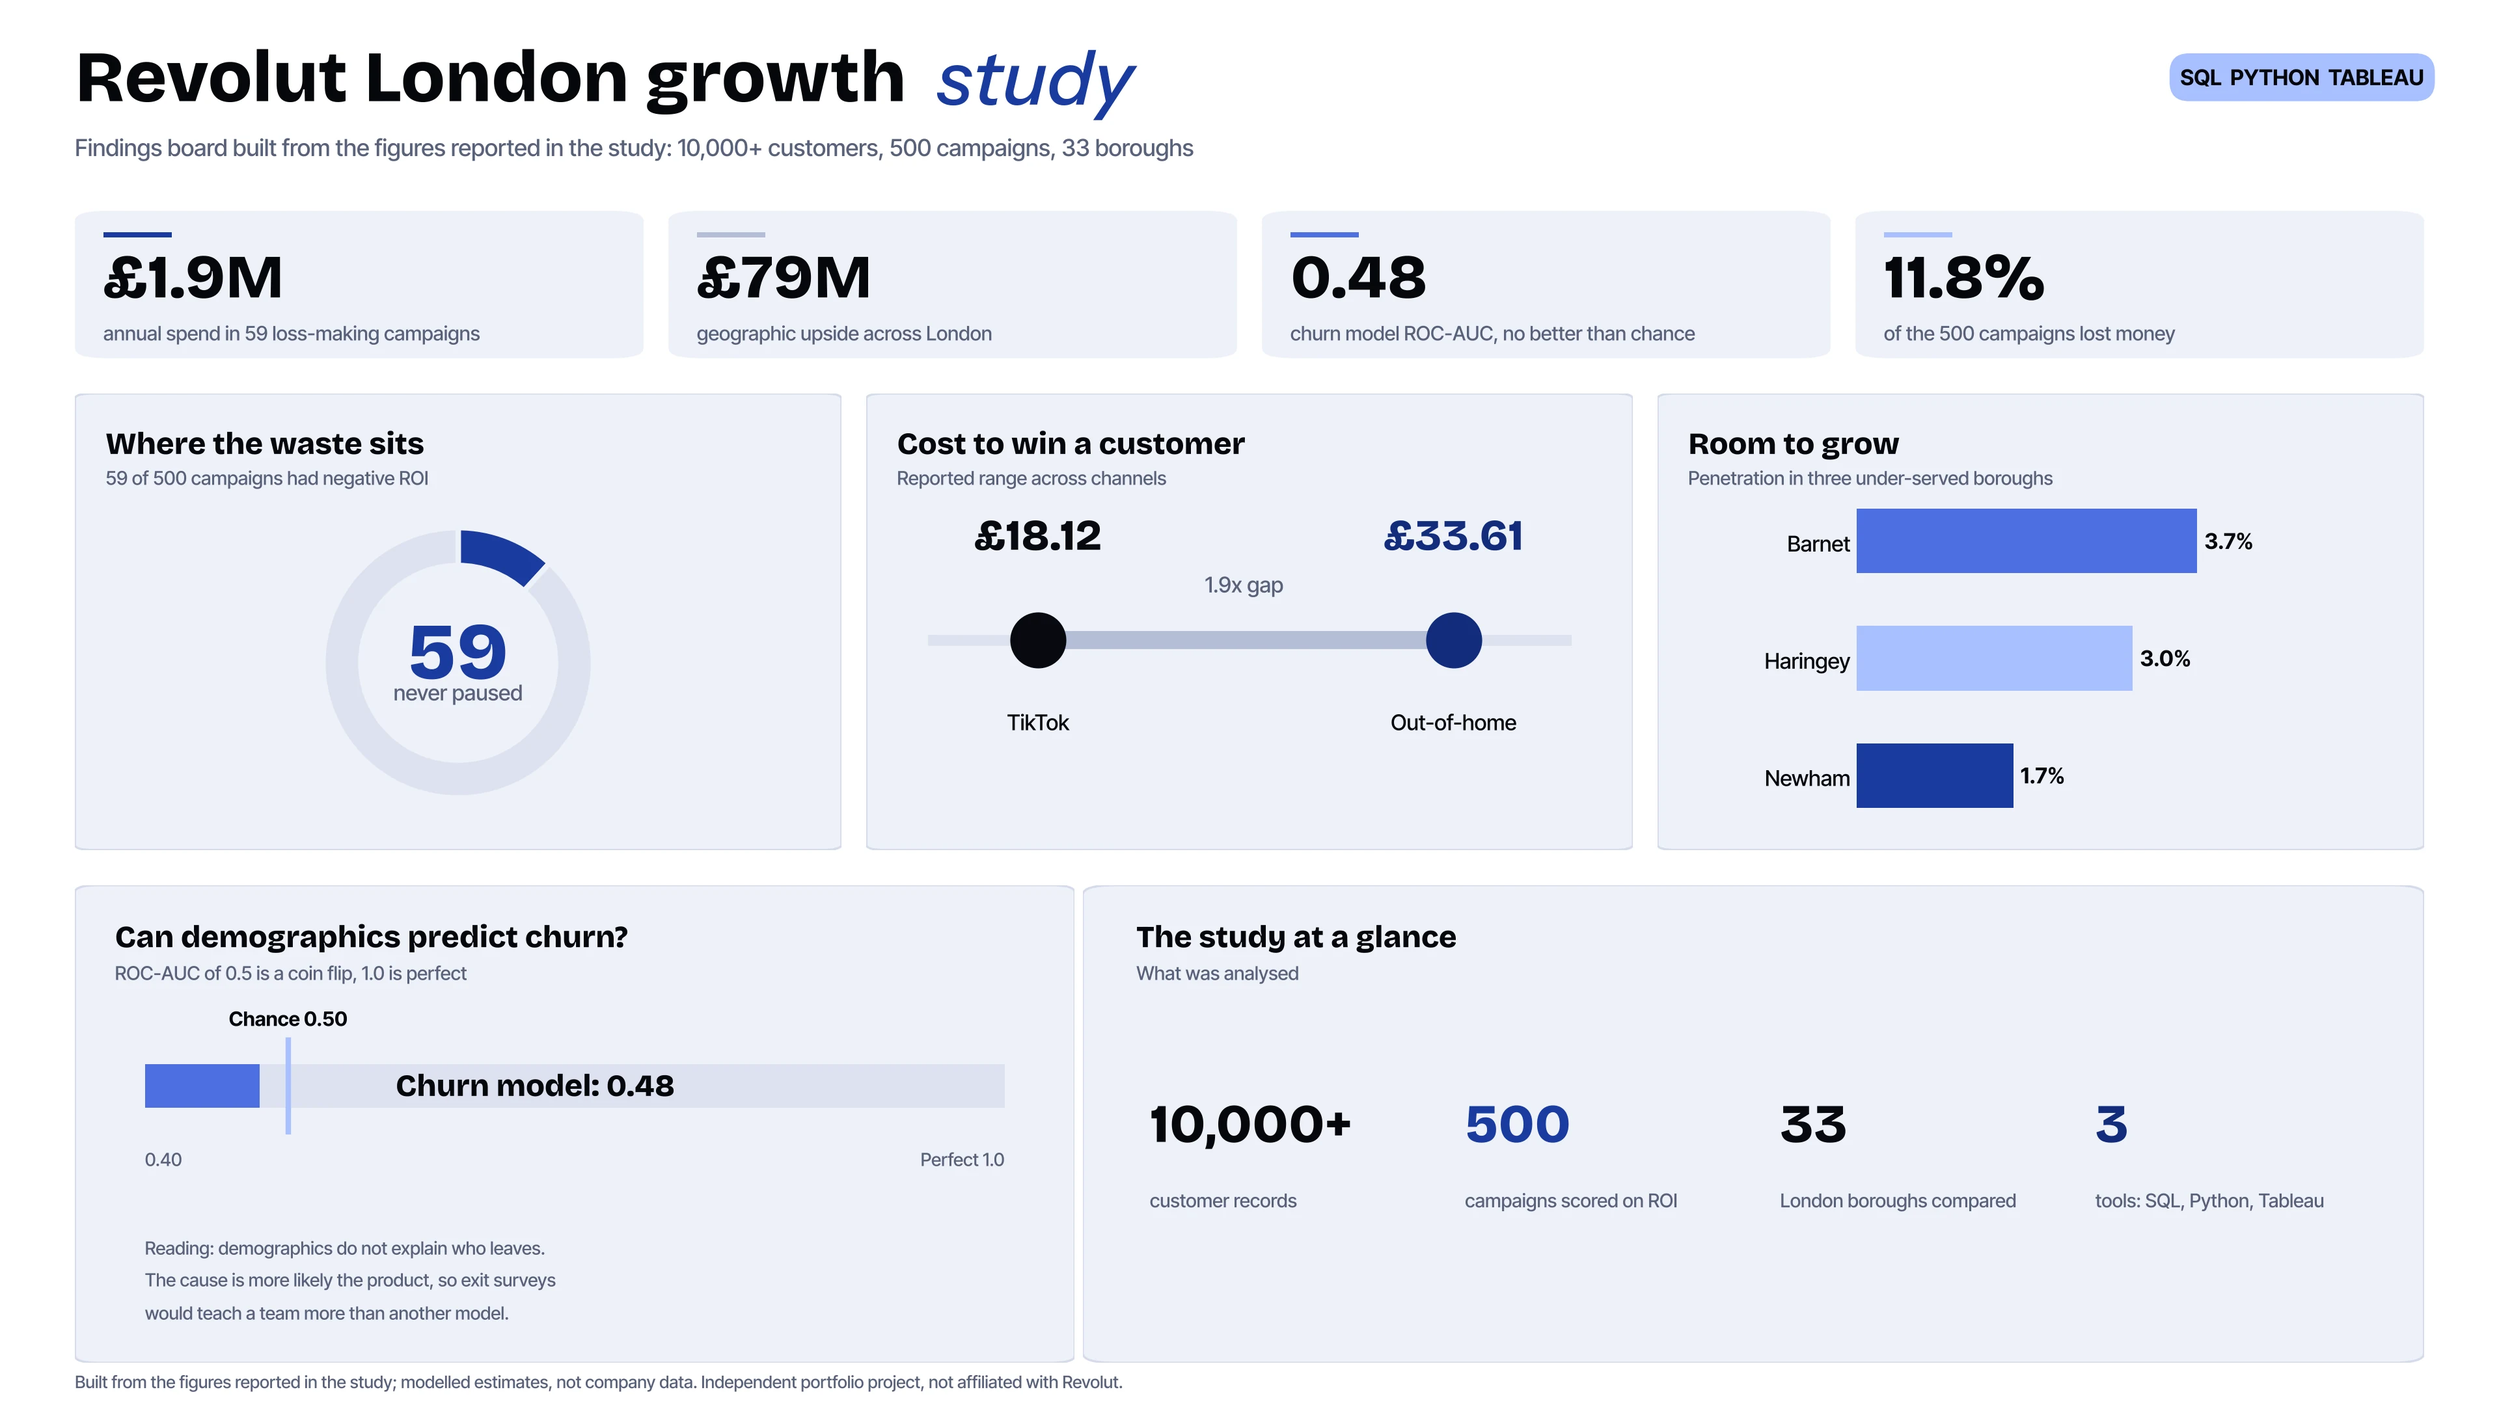
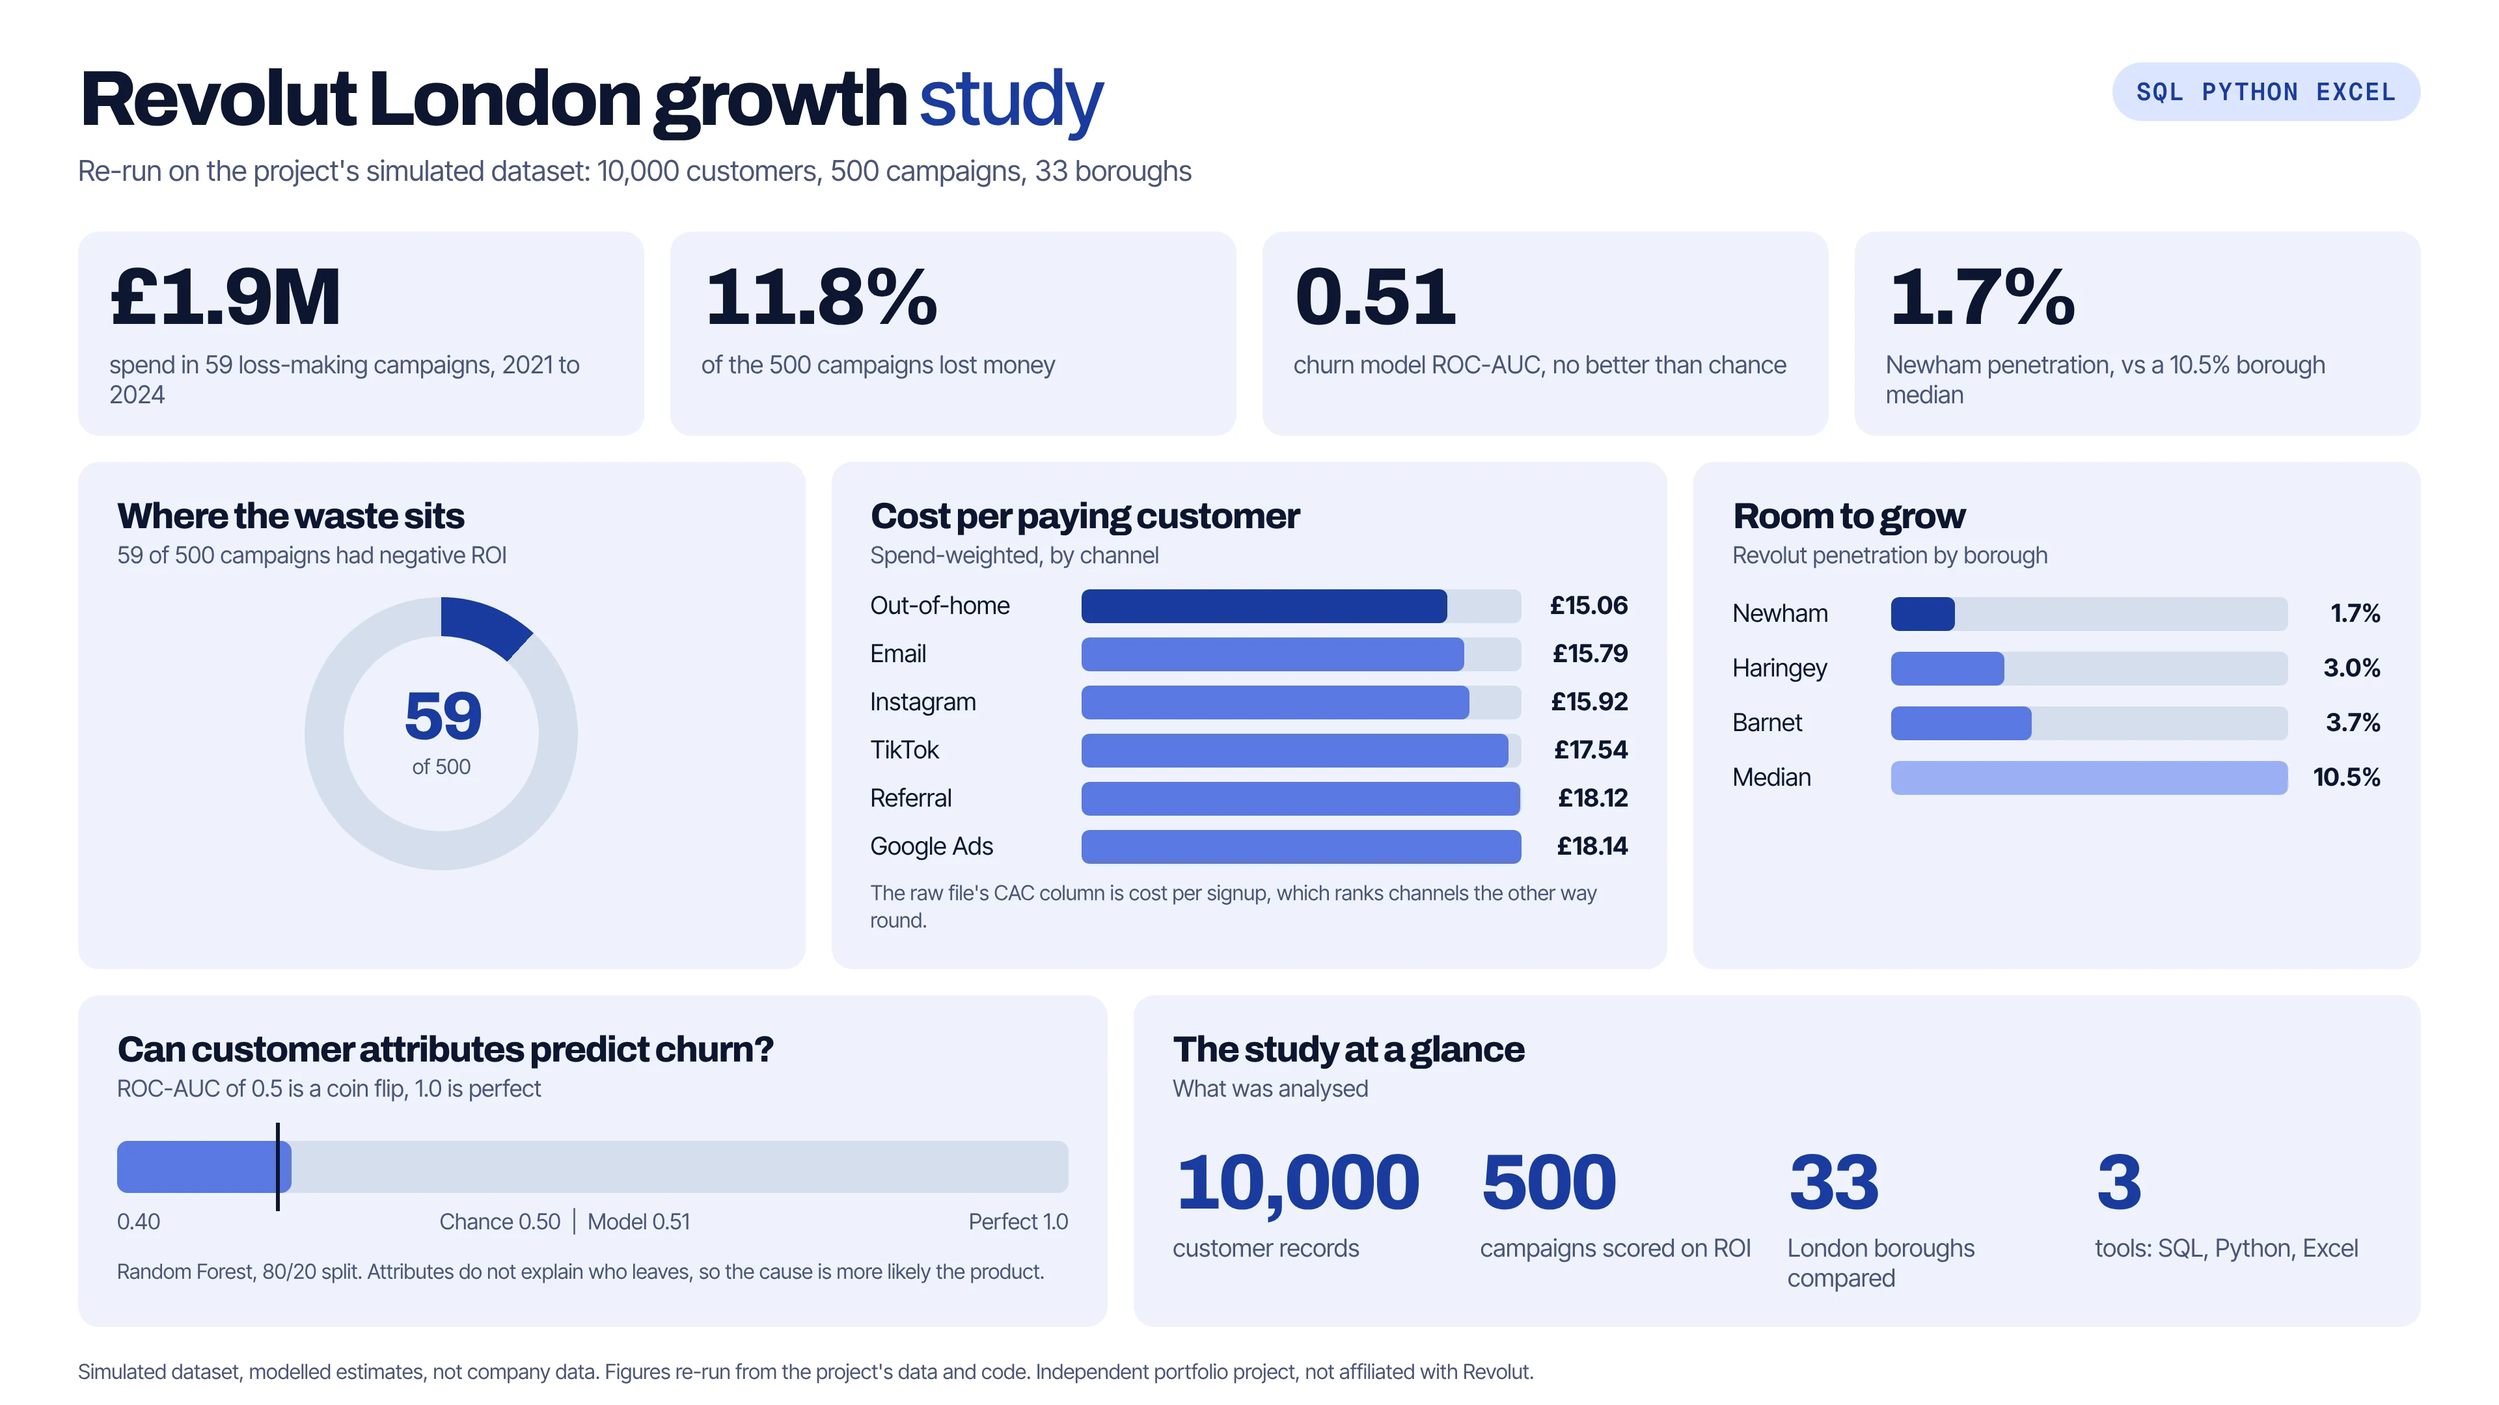
Revolut: correct figures re-run from project data, rebuild findings board, drop unreproducible claims
Claude-Session: https://claude.ai/code/session_01HuEnPFYYzXcu2AzMyJQkWS

diff --git a/project-revolut.html b/project-revolut.html
@@ -42,20 +42,20 @@
   <div data-intro-fade><a class="pagehead__crumb" href="projects.html" data-label="All projects">&larr; All projects</a></div>
   <h1 class="pagehead__title" data-split data-intro>Revolut London Growth <em>Study</em></h1>
   <p class="pagehead__sub" data-intro-fade>Where should a fast-growing fintech spend to win more of London? I read the answer straight out of the data.</p>
-  <div class="pagehead__meta" data-intro-fade><span class="tag tag--done">Simulated dataset</span><span class="tag">2026</span><span class="tag">SQL, Python, Tableau</span></div>
+  <div class="pagehead__meta" data-intro-fade><span class="tag tag--done">Simulated dataset</span><span class="tag">2026</span><span class="tag">SQL, Python, Excel</span></div>
 </section>
 <section class="sec">
   <div class="wrap">
-    <figure class="shot" data-img-in><img src="assets/revolut.webp" alt="Findings board for the Revolut London growth study" width="3840" height="2160"><figcaption>Findings board built from the figures reported in the study. The underlying customer data is not shown.</figcaption></figure>
-    <ul class="pmetrics" data-stagger><li><b>£1.9M</b><span>annual spend in 59 loss-making campaigns</span></li><li><b>£79M</b><span>geographic upside across London</span></li><li><b>0.48</b><span>churn model ROC-AUC, no demographic signal</span></li></ul>
+    <figure class="shot" data-img-in><img src="assets/revolut.webp" alt="Findings board for the Revolut London growth study" width="3840" height="2160"><figcaption>Findings board built from figures re-run on the project&#x27;s own simulated data.</figcaption></figure>
+    <ul class="pmetrics" data-stagger><li><b>£1.9M</b><span>spend in 59 loss-making campaigns, 2021 to 2024</span></li><li><b>11.8%</b><span>of the 500 campaigns lost money</span></li><li><b>0.51</b><span>churn model ROC-AUC, no better than chance</span></li></ul>
     <div class="pcols" data-stagger>
-      <div><h3>The question</h3><p>Where could a fintech like Revolut spend to grow across London? The answer was buried in messy customer and campaign data across 33 boroughs, with campaign spend and churn tangled together.</p></div>
-      <div><h3>What I did</h3><ul><li>Used SQL to pull, shape and validate data on 10,000+ customers and 500 campaigns.</li><li>Segmented customers by value, behaviour and geography in Python.</li><li>Worked out the return on spend for every campaign. The cost to win a customer ranged from £18.12 on TikTok to £33.61 on out-of-home.</li><li>Tested whether churn could be predicted at all, then turned the findings into carousel visuals for LinkedIn.</li></ul></div>
-      <div><h3>What I found</h3><ul><li>About £1.9M of annual spend sat in 59 campaigns with negative ROI that were never paused.</li><li>A £79M geographic upside in under-penetrated boroughs, led by Newham (1.7% penetration), Haringey (3%) and Barnet (3.7%).</li><li>The churn model scored a ROC-AUC of 0.48, which is no better than chance. I read that as useful: demographics do not explain who leaves, so the cause is more likely the product, and exit surveys would tell a team more than another model.</li></ul></div>
+      <div><h3>The question</h3><p>Where could a fintech like Revolut spend to grow across London? The answer sat in a simulated dataset of 10,000 customers, 500 campaigns and 33 boroughs, with campaign spend and churn tangled together.</p></div>
+      <div><h3>What I did</h3><ul><li>Loaded the customers, campaigns and boroughs into SQL and ranked channels by customer value and boroughs by estimated revenue.</li><li>Segmented customers by value, behaviour and geography in Python, and scored boroughs on income, young professionals, fintech awareness, footfall and current penetration.</li><li>Worked out return and cost per customer for every channel. Spend-weighted, a paying customer cost £15.06 on out-of-home up to £18.14 on Google Ads.</li><li>Tested whether churn could be predicted from customer attributes at all, then turned the findings into four LinkedIn carousel slides.</li></ul></div>
+      <div><h3>What I found</h3><ul><li>59 of the 500 campaigns (11.8%) had negative ROI, with £1.9M of spend between them across 2021 to 2024. The file&#x27;s ROI assumes about £120 of revenue per paying customer, so treat it as modelled.</li><li>Newham (1.7% penetration), Haringey (3.0%) and Barnet (3.7%) sit far below the borough median of 10.5%, and Haringey scores highest on my opportunity index.</li><li>A Random Forest scored a ROC-AUC of about 0.51 on a held-out 20%, which is chance. I read that as useful: customer attributes do not explain who leaves, so the cause is more likely the product, and exit surveys would tell a team more than another model.</li><li>The raw file&#x27;s CAC column is really cost per signup. Averaged that way TikTok looks cheapest (£18.12) and out-of-home dearest (£33.61), but per paying customer the order flips. A good reminder to check what a CAC is divided by.</li></ul></div>
     </div>
-    <div class="pnote" data-reveal><h3>A note on the data</h3><p>These figures describe a simulated dataset and are modelled estimates, not any company&#x27;s real performance. They are reported as published in the original study and have not been re-run in code for this site. This is an independent portfolio project and is not affiliated with or endorsed by Revolut.</p></div>
+    <div class="pnote" data-reveal><h3>A note on the data</h3><p>The dataset is simulated, not company data, so every figure is a modelled estimate. The headline numbers were re-run from the project&#x27;s data and code on 24 Nov 2026. An earlier £79M geographic upside figure is dropped because it could not be reproduced from the saved code. Independent portfolio project, not affiliated with or endorsed by Revolut.</p></div>
     <ul class="chips pchips"><li>Marketing analytics</li><li>ROI analysis</li><li>Geo analysis</li><li>Churn</li><li>Data storytelling</li></ul>
-    <figure class="shot shot--second" data-img-in><img src="assets/orig-revolut.webp" alt="The original LinkedIn infographic for the Revolut study" width="1400" height="1400" loading="lazy"><figcaption>The original infographic from the study.</figcaption></figure>
+    
   </div>
 </section>
 <a class="next" href="project-f1.html" data-label="F1 2026 Championship Forecast" ><small>Next</small><strong>F1 2026 Championship Forecast</strong></a>

diff --git a/index.html b/index.html
@@ -130,7 +130,7 @@
       <div class="scard__copy">
         <span class="scard__no">04<small>/ 06</small></span>
         <div><h3 class="scard__title">Revolut London Growth Study</h3><p class="scard__short">How a fintech could win more of London</p></div>
-        <div class="scard__foot"><span class="scard__tools">SQL, Python, Tableau</span><span class="scard__go">View case study <span aria-hidden="true">&nearr;</span></span></div>
+        <div class="scard__foot"><span class="scard__tools">SQL, Python, Excel</span><span class="scard__go">View case study <span aria-hidden="true">&nearr;</span></span></div>
       </div>
       <div class="scard__img"><img src="assets/revolut.webp" alt="Findings board for the Revolut London growth study" width="3840" height="2160" loading="lazy"></div>
     </a><a class="scard scard--1" style="--i:4" href="project-f1.html" data-label="F1 2026 Championship Forecast">

diff --git a/projects.html b/projects.html
@@ -71,7 +71,7 @@
     <a class="prow" href="project-revolut.html" data-label="Revolut London Growth Study" data-thumb="assets/revolut.webp">
       <span class="prow__no">04</span>
       <span class="prow__title">Revolut London Growth Study</span>
-      <span class="prow__meta"><span>SQL, Python, Tableau</span><span class="tag tag--soft">Simulated dataset</span></span>
+      <span class="prow__meta"><span>SQL, Python, Excel</span><span class="tag tag--soft">Simulated dataset</span></span>
       <span class="prow__arrow" aria-hidden="true">&nearr;</span>
       <span class="prow__thumb"><img src="assets/revolut.webp" alt="" loading="lazy"></span>
     </a>

diff --git a/build.py b/build.py
@@ -104,26 +104,26 @@ ALL_PROJECTS = [
     ),
     dict(
         slug="revolut", theme="blue", title="Revolut London Growth Study", short="How a fintech could win more of London",
-        tools="SQL, Python, Tableau", year="2026", status="Simulated dataset", done=True,
+        tools="SQL, Python, Excel", year="2026", status="Simulated dataset", done=True,
         img="assets/revolut.webp", alt="Findings board for the Revolut London growth study", tall=False,
-        cap="Findings board built from the figures reported in the study. The underlying customer data is not shown.",
-        orig="assets/orig-revolut.webp", orig_size=(1400, 1400), orig_alt="The original LinkedIn infographic for the Revolut study", orig_cap="The original infographic from the study.",
+        cap="Findings board built from figures re-run on the project's own simulated data.",
         lede="Where should a fast-growing fintech spend to win more of London? I read the answer straight out of the data.",
-        q="Where could a fintech like Revolut spend to grow across London? The answer was buried in messy customer and campaign data across 33 boroughs, with campaign spend and churn tangled together.",
+        q="Where could a fintech like Revolut spend to grow across London? The answer sat in a simulated dataset of 10,000 customers, 500 campaigns and 33 boroughs, with campaign spend and churn tangled together.",
         did=[
-            "Used SQL to pull, shape and validate data on 10,000+ customers and 500 campaigns.",
-            "Segmented customers by value, behaviour and geography in Python.",
-            "Worked out the return on spend for every campaign. The cost to win a customer ranged from £18.12 on TikTok to £33.61 on out-of-home.",
-            "Tested whether churn could be predicted at all, then turned the findings into carousel visuals for LinkedIn.",
+            "Loaded the customers, campaigns and boroughs into SQL and ranked channels by customer value and boroughs by estimated revenue.",
+            "Segmented customers by value, behaviour and geography in Python, and scored boroughs on income, young professionals, fintech awareness, footfall and current penetration.",
+            "Worked out return and cost per customer for every channel. Spend-weighted, a paying customer cost £15.06 on out-of-home up to £18.14 on Google Ads.",
+            "Tested whether churn could be predicted from customer attributes at all, then turned the findings into four LinkedIn carousel slides.",
         ],
         found=[
-            "About £1.9M of annual spend sat in 59 campaigns with negative ROI that were never paused.",
-            "A £79M geographic upside in under-penetrated boroughs, led by Newham (1.7% penetration), Haringey (3%) and Barnet (3.7%).",
-            "The churn model scored a ROC-AUC of 0.48, which is no better than chance. I read that as useful: demographics do not explain who leaves, so the cause is more likely the product, and exit surveys would tell a team more than another model.",
+            "59 of the 500 campaigns (11.8%) had negative ROI, with £1.9M of spend between them across 2021 to 2024. The file's ROI assumes about £120 of revenue per paying customer, so treat it as modelled.",
+            "Newham (1.7% penetration), Haringey (3.0%) and Barnet (3.7%) sit far below the borough median of 10.5%, and Haringey scores highest on my opportunity index.",
+            "A Random Forest scored a ROC-AUC of about 0.51 on a held-out 20%, which is chance. I read that as useful: customer attributes do not explain who leaves, so the cause is more likely the product, and exit surveys would tell a team more than another model.",
+            "The raw file's CAC column is really cost per signup. Averaged that way TikTok looks cheapest (£18.12) and out-of-home dearest (£33.61), but per paying customer the order flips. A good reminder to check what a CAC is divided by.",
         ],
-        metrics=[("£1.9M", "annual spend in 59 loss-making campaigns"), ("£79M", "geographic upside across London"), ("0.48", "churn model ROC-AUC, no demographic signal")],
+        metrics=[("£1.9M", "spend in 59 loss-making campaigns, 2021 to 2024"), ("11.8%", "of the 500 campaigns lost money"), ("0.51", "churn model ROC-AUC, no better than chance")],
         note_h="A note on the data",
-        note="These figures describe a simulated dataset and are modelled estimates, not any company's real performance. They are reported as published in the original study and have not been re-run in code for this site. This is an independent portfolio project and is not affiliated with or endorsed by Revolut.",
+        note="The dataset is simulated, not company data, so every figure is a modelled estimate. The headline numbers were re-run from the project's data and code on 24 Nov 2026. An earlier £79M geographic upside figure is dropped because it could not be reproduced from the saved code. Independent portfolio project, not affiliated with or endorsed by Revolut.",
         tags=["Marketing analytics", "ROI analysis", "Geo analysis", "Churn", "Data storytelling"],
     ),
     dict(
